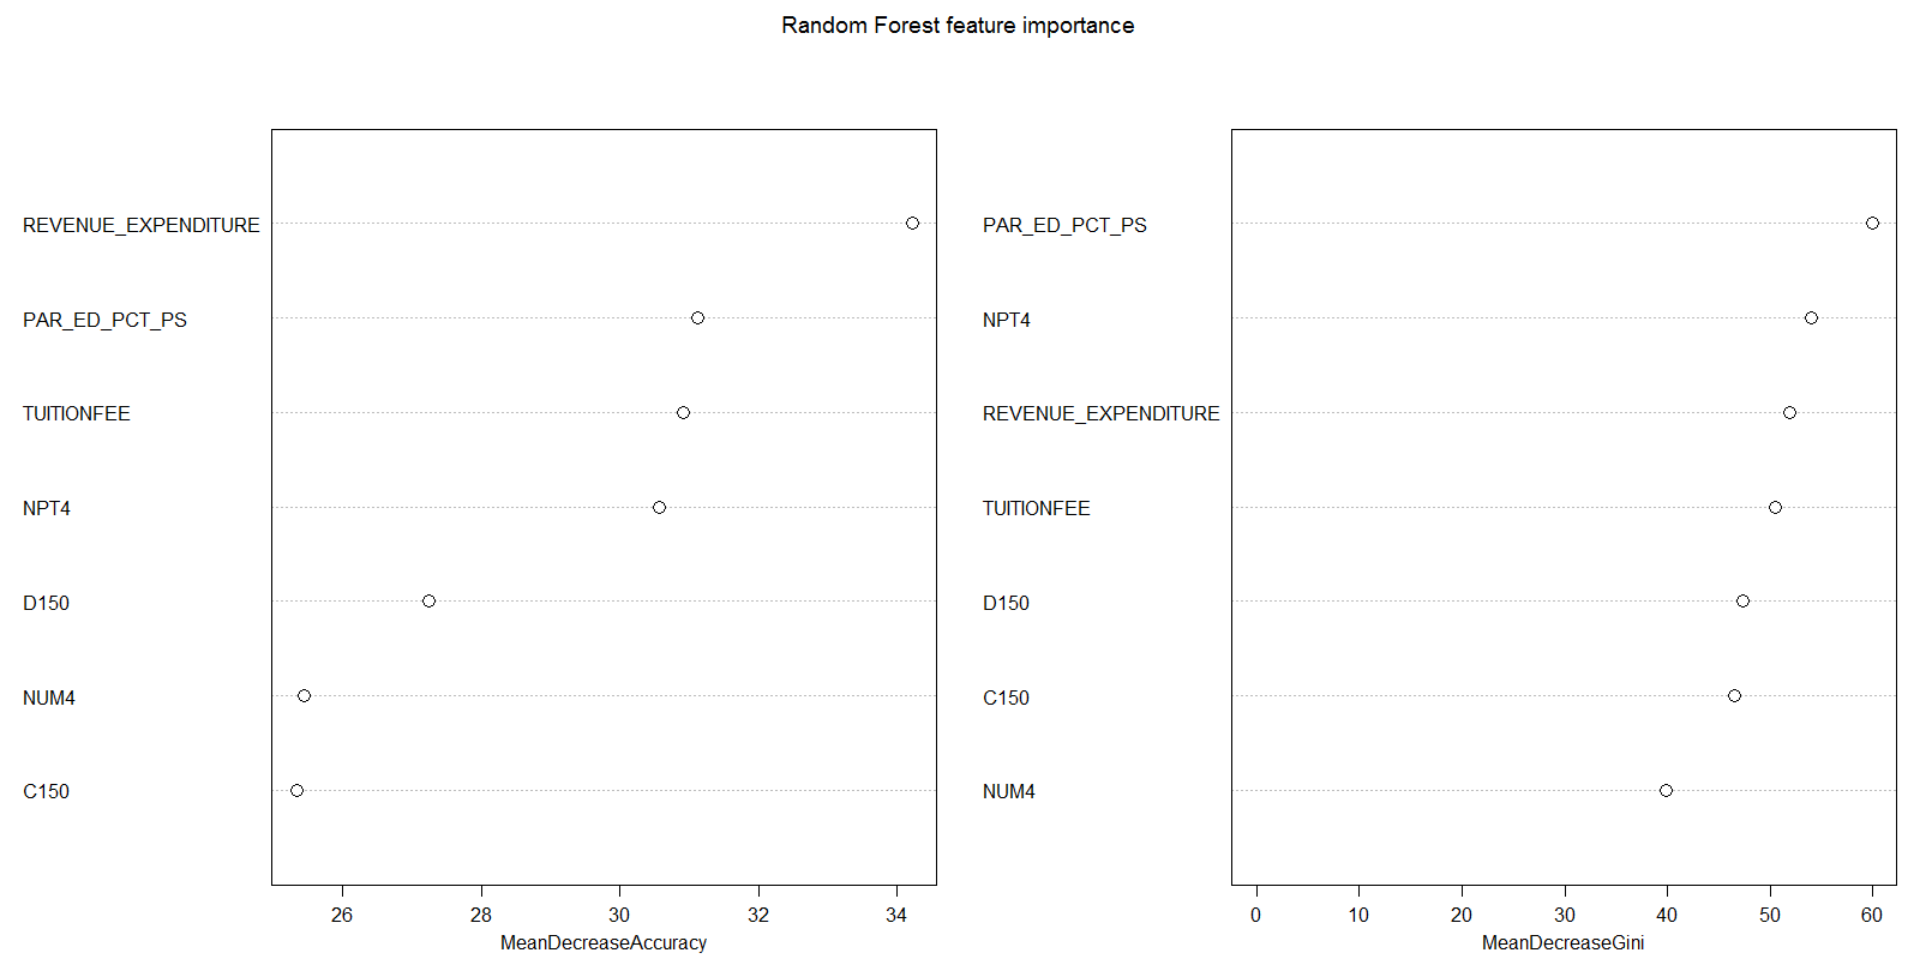
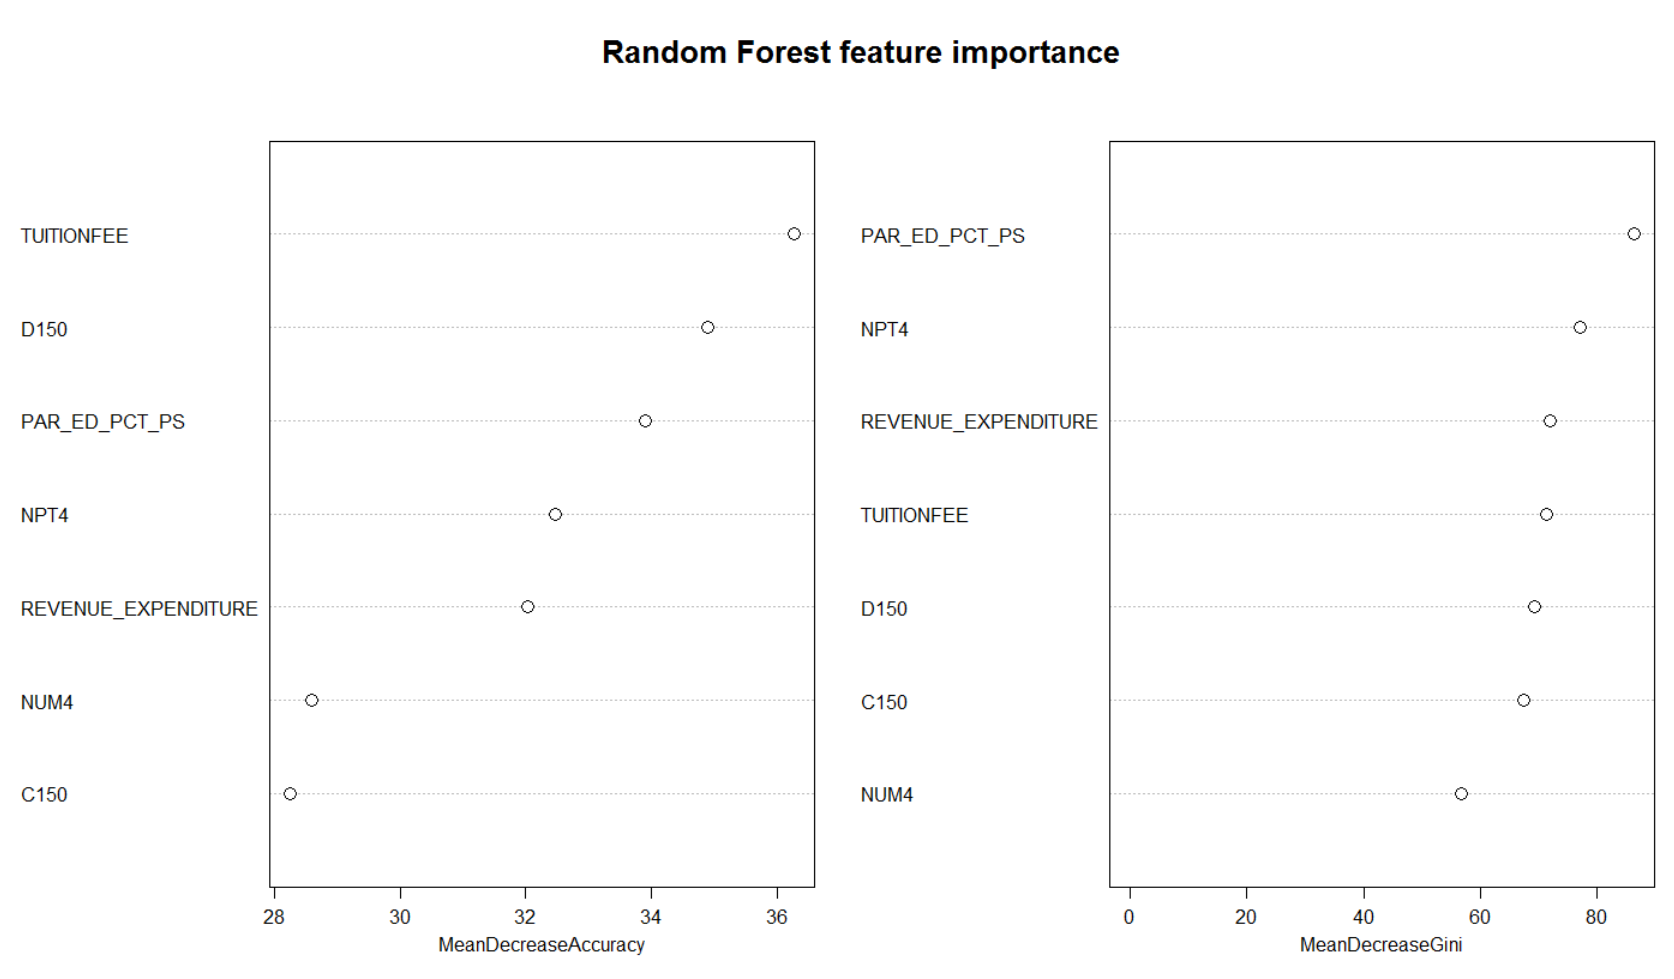
Combined data from all files

diff --git a/README.md b/README.md
@@ -28,12 +28,13 @@ Applying feature elimination demonstrated that we can noticeably increase AUC in
 
 The features left for the final model (ordered by decreasing importance):
 
-1. `REVENUE_EXPENDITURE` - Net tuition revenue minus instructional expenditures per full-time equivalent student.
-2. `TUITIONFEE` - Tuition and fees.
+1. `TUITIONFEE` - Tuition and fees.
+2. `D150` - Completion rates.
 3. `PAR_ED_PCT_HS` - Percent of students whose parents' highest educational level was is some form of postsecondary education.
 4. `NPT4` - Average net price for Title IV institutions.
-5. `NUM4` - Number of Title IV students.
-6. `D150`, `C150` - Completion rates.
+5. `REVENUE_EXPENDITURE` - Net tuition revenue minus instructional expenditures per full-time equivalent student.
+6. `NUM4` - Number of Title IV students.
+7. `C150` - Completion rates.
 
 There's no surprise except for `PAR_ED_PCT_HS`. One of the possible explanations can be that parents with a higher education would recommend their children to apply to more stable schools.
 
@@ -55,11 +56,15 @@ Because the data set appeared to have somewhat imbalanced data I was concerned a
 
 Tuning Random Forest parameters, showed that defaults (`nodesize=1`, `ntree=500`) give the best partial auc.
 
+### Hunting more data
+
+After applying classificator for 2013 data, I've decided to gather additional information from files for other years. The algorithm was straightforward - for every school that's missing data for selected features, try to get data for that column from other files. It allowed me to decrease number of incomplete rows from 2011 to 1445.
+
 ### Estimating final performance
 
 I've chosen classification probability threshold to achieve FPR around 5% according to aforementioned calculations which turned out to be around 0.132.
 It resulted in following estimations:
 
-- **Precision** : `0.246` - One quarter of non-operating predictions were correct.
-- **TPR(Recall)** : `0.46` - I've been able to correctly predict about a half of all the non-operating schools.
-- **FPR** : `0.048` - expected FPR value of around 5%.
+**Precision** : `0.27` - More than one quarter of non-operating predictions were correct.
+**TPR(Recall)** : `0.42` - I've been able to correctly predict about a half of all the non-operating schools.
+**FPR** : `0.048` - expected FPR value of around 5%.
